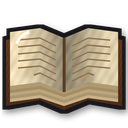
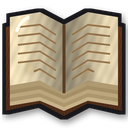
style(hud): the book stands as tall as the clipboard
Claude-Session: https://claude.ai/code/session_018qtt7uTeVSGsnvQanUjafP

diff --git a/tools/draw_props.py b/tools/draw_props.py
@@ -333,6 +333,10 @@ def _finish(icon: Image.Image, name: str, s: int) -> None:
     out.resize((128, 128), Image.LANCZOS).save(ROOT / "assets" / "ui" / name)
 
 
+## How tall the open book is drawn (of 128), so it stands as tall as the clipboard on screen.
+BOOK_HEIGHT = 104
+
+
 def draw_book_icon() -> None:
     """The memories (Alaala) icon: an old book lying open, seen a little from above. A worn leather
     cover shows under the pages, the pages bow up from the spine with a deep shadow in the gutter,
@@ -386,6 +390,12 @@ def draw_book_icon() -> None:
     d.line([(64 * s, 38 * s), (64 * s, 92 * s)], fill=(90, 62, 36, 255), width=3 * s)
     # A soft shine on the upper left page.
     d.arc((14 * s, 30 * s, 54 * s, 70 * s), 200, 255, fill=(255, 252, 240, 255), width=3 * s)
+    # Seen more from above, so the book stands as tall as the clipboard beside it.
+    box = icon.getbbox()
+    book = icon.crop(box)
+    tall = book.resize((book.width, BOOK_HEIGHT * s), Image.LANCZOS)
+    icon = Image.new("RGBA", (n, n), (0, 0, 0, 0))
+    icon.alpha_composite(tall, ((n - tall.width) // 2, (n - tall.height) // 2))
     _finish(icon, "book.png", s)
 
 

diff --git a/HANDOFF.md b/HANDOFF.md
@@ -323,7 +323,8 @@ Each is a tagged release on `main`. `git log --oneline` and `git tag -l` show th
   the gear (gear 64, book 67, clipboard 59). Later (user): no ribbon on the book, and all three
   were redrawn with more depth: the gear's thickness and bevel, the book's leather cover, stacked
   page edges and gutter shadow, the clipboard's board thickness and lifted paper corner, plus a
-  soft drop shadow on each (`_finish` in `draw_props.py`).
+  soft drop shadow on each (`_finish` in `draw_props.py`). The book is drawn as if seen more from
+  above (`BOOK_HEIGHT` in `draw_props.py`) so it stands as tall as the clipboard on screen.
   Icons drawn by `tools/draw_props.py` (`assets/ui/book.png`, `clipboard.png`), window in
   `scripts/journal_modal.gd`. All HUD icons hide during dialogues (`GameMenu.get_hud_icons`).
 - **Music volume:** the user still has not confirmed -24 dB sounds right.
